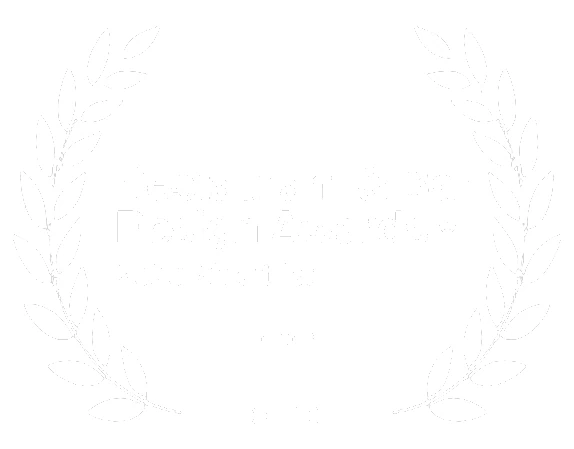
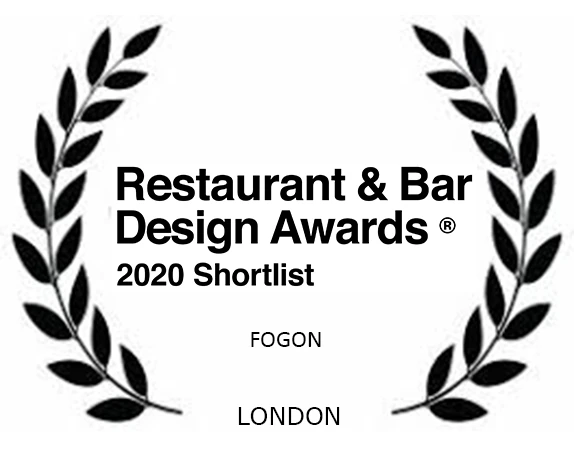
Refuerza el flujo de autogestion y corrige premio Fogon

Changed region(s): [[0.0, 0.0312, 0.9774, 0.9666], [0.4146, 0.9042, 0.5923, 0.9666], [0.4146, 0.7171, 0.5627, 0.7795]]

diff --git a/admin/galeria.js b/admin/galeria.js
@@ -249,7 +249,7 @@
         : Promise.resolve();
     });
 
-    paso.then(function () {
+    return paso.then(function () {
       return rest('/obra_imagenes?id=eq.' + encodeURIComponent(foto.id),
         { method: 'PATCH', body: { es_portada: true } });
     }).then(function () {
@@ -258,35 +258,60 @@
       avisar('Portada cambiada.', 'ok');
     }).catch(function (e) {
       avisar(e.message, 'error');
-      cargar();
+      // Si marcar la nueva fallo despues de sacar la anterior, se intenta
+      // restaurar la portada previa antes de recargar el estado real.
+      var restaurar = anterior
+        ? rest('/obra_imagenes?id=eq.' + encodeURIComponent(anterior.id),
+          { method: 'PATCH', body: { es_portada: true } }).catch(function () {})
+        : Promise.resolve();
+      return restaurar.then(cargar);
     });
   }
 
   /* --- eliminar --------------------------------------------------------- */
 
   function eliminar(foto) {
-    if (!window.confirm('¿Eliminar esta foto? No se puede deshacer.')) return;
-    avisar('Eliminando…', 'ok');
+    var puedeEliminar = fotos.length === 1
+      ? rest('/obras?id=eq.' + encodeURIComponent(obraId) + '&select=publicada')
+        .then(function (obras) {
+          if (obras[0] && obras[0].publicada) {
+            throw new Error(
+              'Una obra publicada necesita al menos una foto. Despublicala antes de eliminar la última.'
+            );
+          }
+        })
+      : Promise.resolve();
 
-    // Primero el archivo y despues la fila: al reves, si falla el segundo paso
-    // el archivo queda en el bucket sin nada que lo referencie.
-    activarGestion().then(function () {
-      return DATOS.borrarArchivos([foto.storage_path]);
+    // Primero se saca la fila y despues el archivo. Si falla la limpieza del
+    // bucket puede quedar un archivo huerfano para borrar mas tarde, pero la
+    // pagina nunca queda apuntando a una imagen que ya no existe.
+    puedeEliminar.then(function () {
+      if (!window.confirm('¿Eliminar esta foto? No se puede deshacer.')) {
+        throw { cancelada: true };
+      }
+      avisar('Eliminando…', 'ok');
+      return activarGestion();
     }).then(function () {
       return rest('/obra_imagenes?id=eq.' + encodeURIComponent(foto.id),
         { method: 'DELETE' });
+    }).then(function () {
+      return DATOS.borrarArchivos([foto.storage_path]).catch(function () {
+        // La baja visible ya termino. La limpieza del archivo no debe hacer
+        // creer que la foto sigue en la galeria ni reintentar una fila borrada.
+      });
     }).then(function () {
       fotos = fotos.filter(function (f) { return f.id !== foto.id; });
       // Si se borro la portada, la primera pasa a serlo: una obra sin portada
       // sale sin imagen en el listado del sitio.
       if (foto.es_portada && fotos.length) {
-        elegirPortada(fotos[0]);
+        return elegirPortada(fotos[0]);
       } else {
         pintar();
         guardarOrden();
         avisar('Foto eliminada.', 'ok');
       }
     }).catch(function (e) {
+      if (e && e.cancelada) return;
       avisar(e.message, 'error');
     });
   }

diff --git a/admin/datos.js b/admin/datos.js
@@ -92,14 +92,17 @@
   }
 
   /* Borrar la obra borra sus filas de imagenes por el cascade, pero NO los
-     archivos del bucket: eso se hace antes, aparte, o quedan ocupando espacio
-     para siempre. */
+     archivos del bucket. Se borra primero la fila: si despues falla Storage
+     queda un archivo huerfano, pero nunca una obra viva con fotos rotas. */
   function borrarObra(id) {
+    var rutas = [];
     return listarImagenes(id).then(function (imgs) {
-      if (!imgs.length) return null;
-      return borrarArchivos(imgs.map(function (i) { return i.storage_path; }));
-    }).then(function () {
+      rutas = imgs.map(function (i) { return i.storage_path; });
       return llamar('/obras?id=eq.' + encodeURIComponent(id), { method: 'DELETE' });
+    }).then(function () {
+      // La obra ya no es visible ni regenerable. Un fallo al limpiar Storage
+      // no debe presentar la baja como fallida ni invitar a repetirla.
+      return borrarArchivos(rutas).catch(function () {});
     });
   }
 

diff --git a/docs/panel_sitio.py b/docs/panel_sitio.py
@@ -9,8 +9,10 @@
    Que saca de una obra que ya no esta publicada:
 
    - la carpeta proyectos/<slug>/
+   - sus galerias, planos y portada del build publico
    - su tarjeta y su fila en /proyectos/
    - sus entradas en el buscador, en los dos idiomas
+   - los enlaces que la apuntaban desde premios, prensa u otras secciones
 
    Lo que NO hace: crear las que faltan —eso es otro paso— ni tocar el sitemap,
    que se regenera despues con docs/sitemap_gen.py leyendo el disco. El espejo
@@ -116,6 +118,35 @@ def quien_linkea(slug, salvo):
     return fuera
 
 
+def desvincular(html, slug):
+    """Saca enlaces a una obra dada de baja, conservando su contenido visible.
+
+    El build parte siempre del repo limpio. Si la obra se vuelve a publicar, el
+    enlace original reaparece y no hace falta reconstruirlo desde la base.
+    """
+    rutas = (
+        '/proyectos/%s/' % slug,
+        'https://estudiohma.com/proyectos/%s/' % slug,
+    )
+    for ruta in rutas:
+        patron = re.compile(
+            r'<a\b[^>]*href=["\']%s["\'][^>]*>(.*?)</a>' % re.escape(ruta),
+            re.DOTALL | re.IGNORECASE)
+        html = patron.sub(lambda m: m.group(1), html)
+    return html
+
+
+def sacar_recursos(slug):
+    """Quita del resultado publico los archivos de una obra no publicada."""
+    for carpeta in ('gallery', 'planos'):
+        destino = os.path.join(RAIZ, 'assets', carpeta, slug)
+        if os.path.isdir(destino):
+            shutil.rmtree(destino)
+    portada = os.path.join(RAIZ, 'assets', 'covers', slug + '.webp')
+    if os.path.isfile(portada):
+        os.remove(portada)
+
+
 # ---------------------------------------------------------------------------
 
 def main(verificar, supabase):
@@ -167,12 +198,27 @@ def main(verificar, supabase):
         print('\nOJO — enlaces que quedan apuntando a una pagina que ya no existe:')
         for s, donde in sorted(colgados.items()):
             print('  %s  <-  %s' % (s, ', '.join(donde)))
-        print('  Hay que sacarlos a mano: este script no adivina como queda el '
-              'texto alrededor.')
+        print('  Se conservara el contenido visible y se sacara solo el enlace.')
 
     if verificar:
         print('\n(--verificar: no se toco nada)')
         return 0
+
+    # --- enlaces externos a las fichas que se van ---
+    # Se hace antes de borrar las paginas. Premios y prensa conservan el texto
+    # o la imagen, pero ya no mandan a una URL inexistente.
+    archivos_a_desvincular = set()
+    for donde in colgados.values():
+        archivos_a_desvincular.update(donde)
+    for rel in sorted(archivos_a_desvincular):
+        p = os.path.join(RAIZ, *rel.split('/'))
+        crudo = io.open(p, encoding='utf-8').read()
+        limpio = crudo
+        for s in sobran:
+            limpio = desvincular(limpio, s)
+        if limpio != crudo:
+            io.open(p, 'w', encoding='utf-8', newline='\n').write(limpio)
+            print('  enlaces retirados de ' + rel)
 
     # --- listado ---
     html = io.open(LISTADO, encoding='utf-8').read()
@@ -206,6 +252,7 @@ def main(verificar, supabase):
         d = os.path.join(RAIZ, 'proyectos', s)
         if os.path.isdir(d):
             shutil.rmtree(d)
+        sacar_recursos(s)
 
     tarjetas = len(re.findall(r'class="project-card"', html))
     filas = len(re.findall(r'class="project-list-row"', html))

diff --git a/docs/panel_build.py b/docs/panel_build.py
@@ -1,7 +1,7 @@
 # -*- coding: utf-8 -*-
 """Arma el sitio desde la base. Es lo unico que corre el build de Vercel.
 
-   Los doce pasos podrian ir encadenados con && en la casilla de Vercel, pero el
+   Los trece pasos podrian ir encadenados con && en la casilla de Vercel, pero el
    comando de build admite 256 caracteres y esa cadena mide mas del doble. Aca
    ademas se ve en el log donde falla, que en una sola linea de shell no se ve.
 
@@ -24,7 +24,10 @@
     10. prensa_pagina   rearma el archivo completo de publicaciones.
     11. en_gen          rehace /en/ de cero. Traduce lo que dejaron los pasos
                         anteriores.
-    12. sitemap_gen     rearma el sitemap leyendo el disco, incluido el espejo.
+    12. obras_orden     ordena grilla y lista por el ano final, tanto en
+                        castellano como en ingles. Asi una obra nueva no queda
+                        al final solo por haberse cargado despues.
+    13. sitemap_gen     rearma el sitemap leyendo el disco, incluido el espejo.
 
    Si un paso falla, corta ahi y devuelve error. Vercel no publica un build que
    no termino, asi que el sitio anterior sigue en pie: es preferible quedarse un
@@ -50,6 +53,7 @@ PASOS = [
     ('los banners del home',         'panel_home.py',    ['--supabase']),
     ('el archivo de prensa',         'prensa_pagina.py', []),
     ('el sitio en ingles',           'en_gen.py',        []),
+    ('el orden cronologico',         'obras_orden.py',   []),
     ('el sitemap',                   'sitemap_gen.py',   []),
 ]
 

diff --git a/docs/PASOS-ALTA-Y-PANEL.md b/docs/PASOS-ALTA-Y-PANEL.md
@@ -277,7 +277,7 @@ Y una variable más:
 
 Esta es la clave secreta de la tabla de arriba. Va **sólo acá**.
 
-### Qué hace cada paso, y por qué en ese orden (son doce)
+### Qué hace cada paso, y por qué en ese orden (son trece)
 
 | Paso | Qué hace |
 |---|---|
@@ -286,12 +286,13 @@ Esta es la clave secreta de la tabla de arriba. Va **sólo acá**.
 | `panel_alta.py` | Crea la página de cada obra nueva y baja sus fotos de Storage. **Va antes que el generador**: si la página no existe, el generador la saltea. |
 | `panel_galerias.py` | Conecta hasta 15 fotos de cada obra histórica con el panel y aplica orden, portada, altas y bajas desde la primera edición. |
 | `panel_generar.py` | Rellena título, bajada, ficha y memoria en todas las páginas publicadas. |
-| `panel_sitio.py` | Saca del sitio las obras eliminadas o despublicadas. |
+| `panel_sitio.py` | Saca del sitio las obras eliminadas o despublicadas, incluidos portada, galería, planos y enlaces que quedarían apuntando a una ficha inexistente. |
 | `panel_estados.py` | Pone el sello "Obra"/"Proyecto" del listado de acuerdo con el estado de la base. **Va después de las altas y las bajas**, que son las que agregan y sacan tarjetas. |
 | `panel_textos.py` | Escribe los 11 textos fijos de home, estudio y contacto. |
 | `panel_home.py` | Pone las obras destacadas en los tres banners del home. |
 | `prensa_pagina.py` | Genera `/prensa/publicaciones/` desde `docs/prensa-listado.html`, el archivo cronológico completo de prensa. |
 | `en_gen.py` | Rehace `/en/` de cero y traduce lo que dejaron los pasos anteriores. |
+| `obras_orden.py` | Ordena grilla y lista por año final, en ambos idiomas. **Va después de `en_gen.py`** para que una obra nueva quede en la misma posición cronológica en los dos listados. |
 | `sitemap_gen.py` | Rearma el sitemap leyendo las páginas en castellano y el espejo inglés ya generado. **Va último** para incluir ambas versiones. |
 
 Si un paso falla, el deploy se corta y el sitio anterior sigue en pie: Vercel
